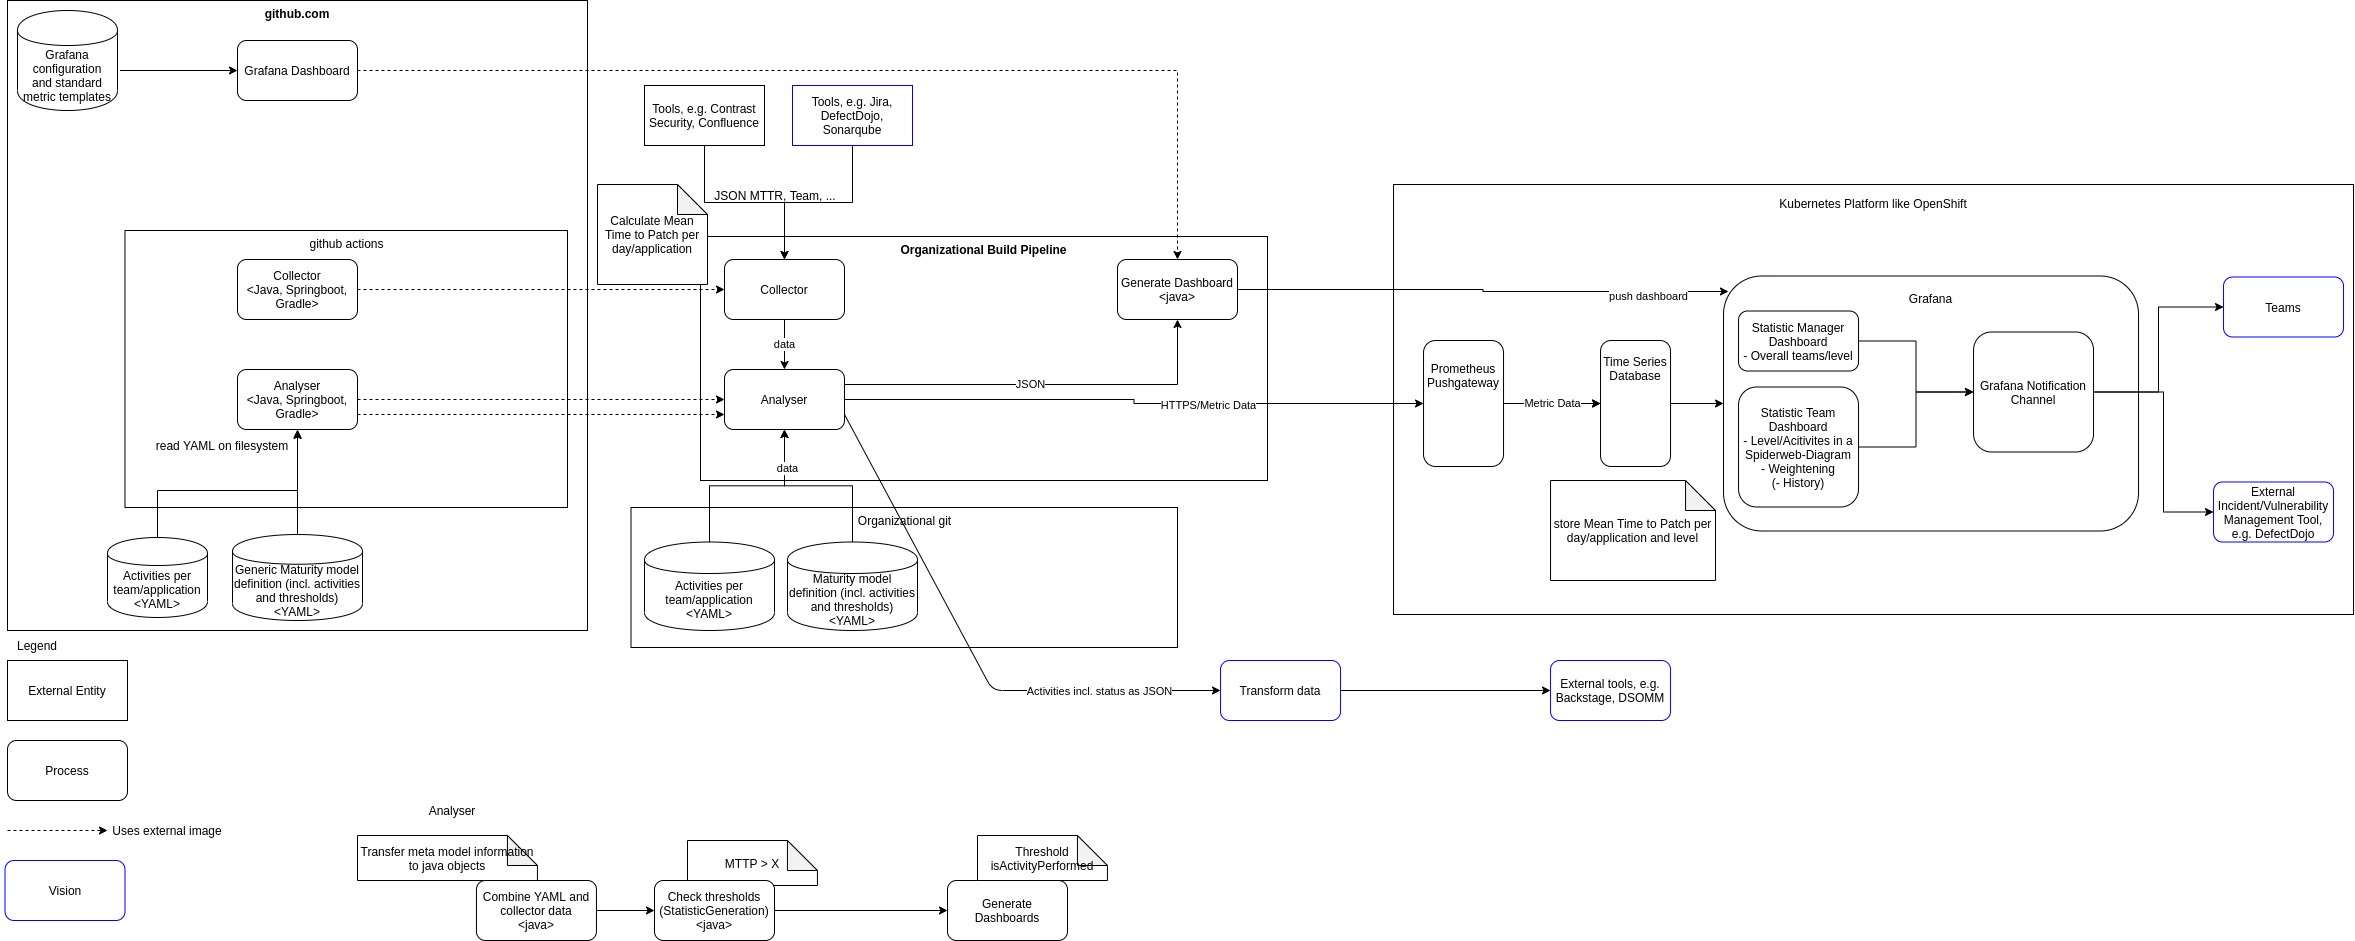
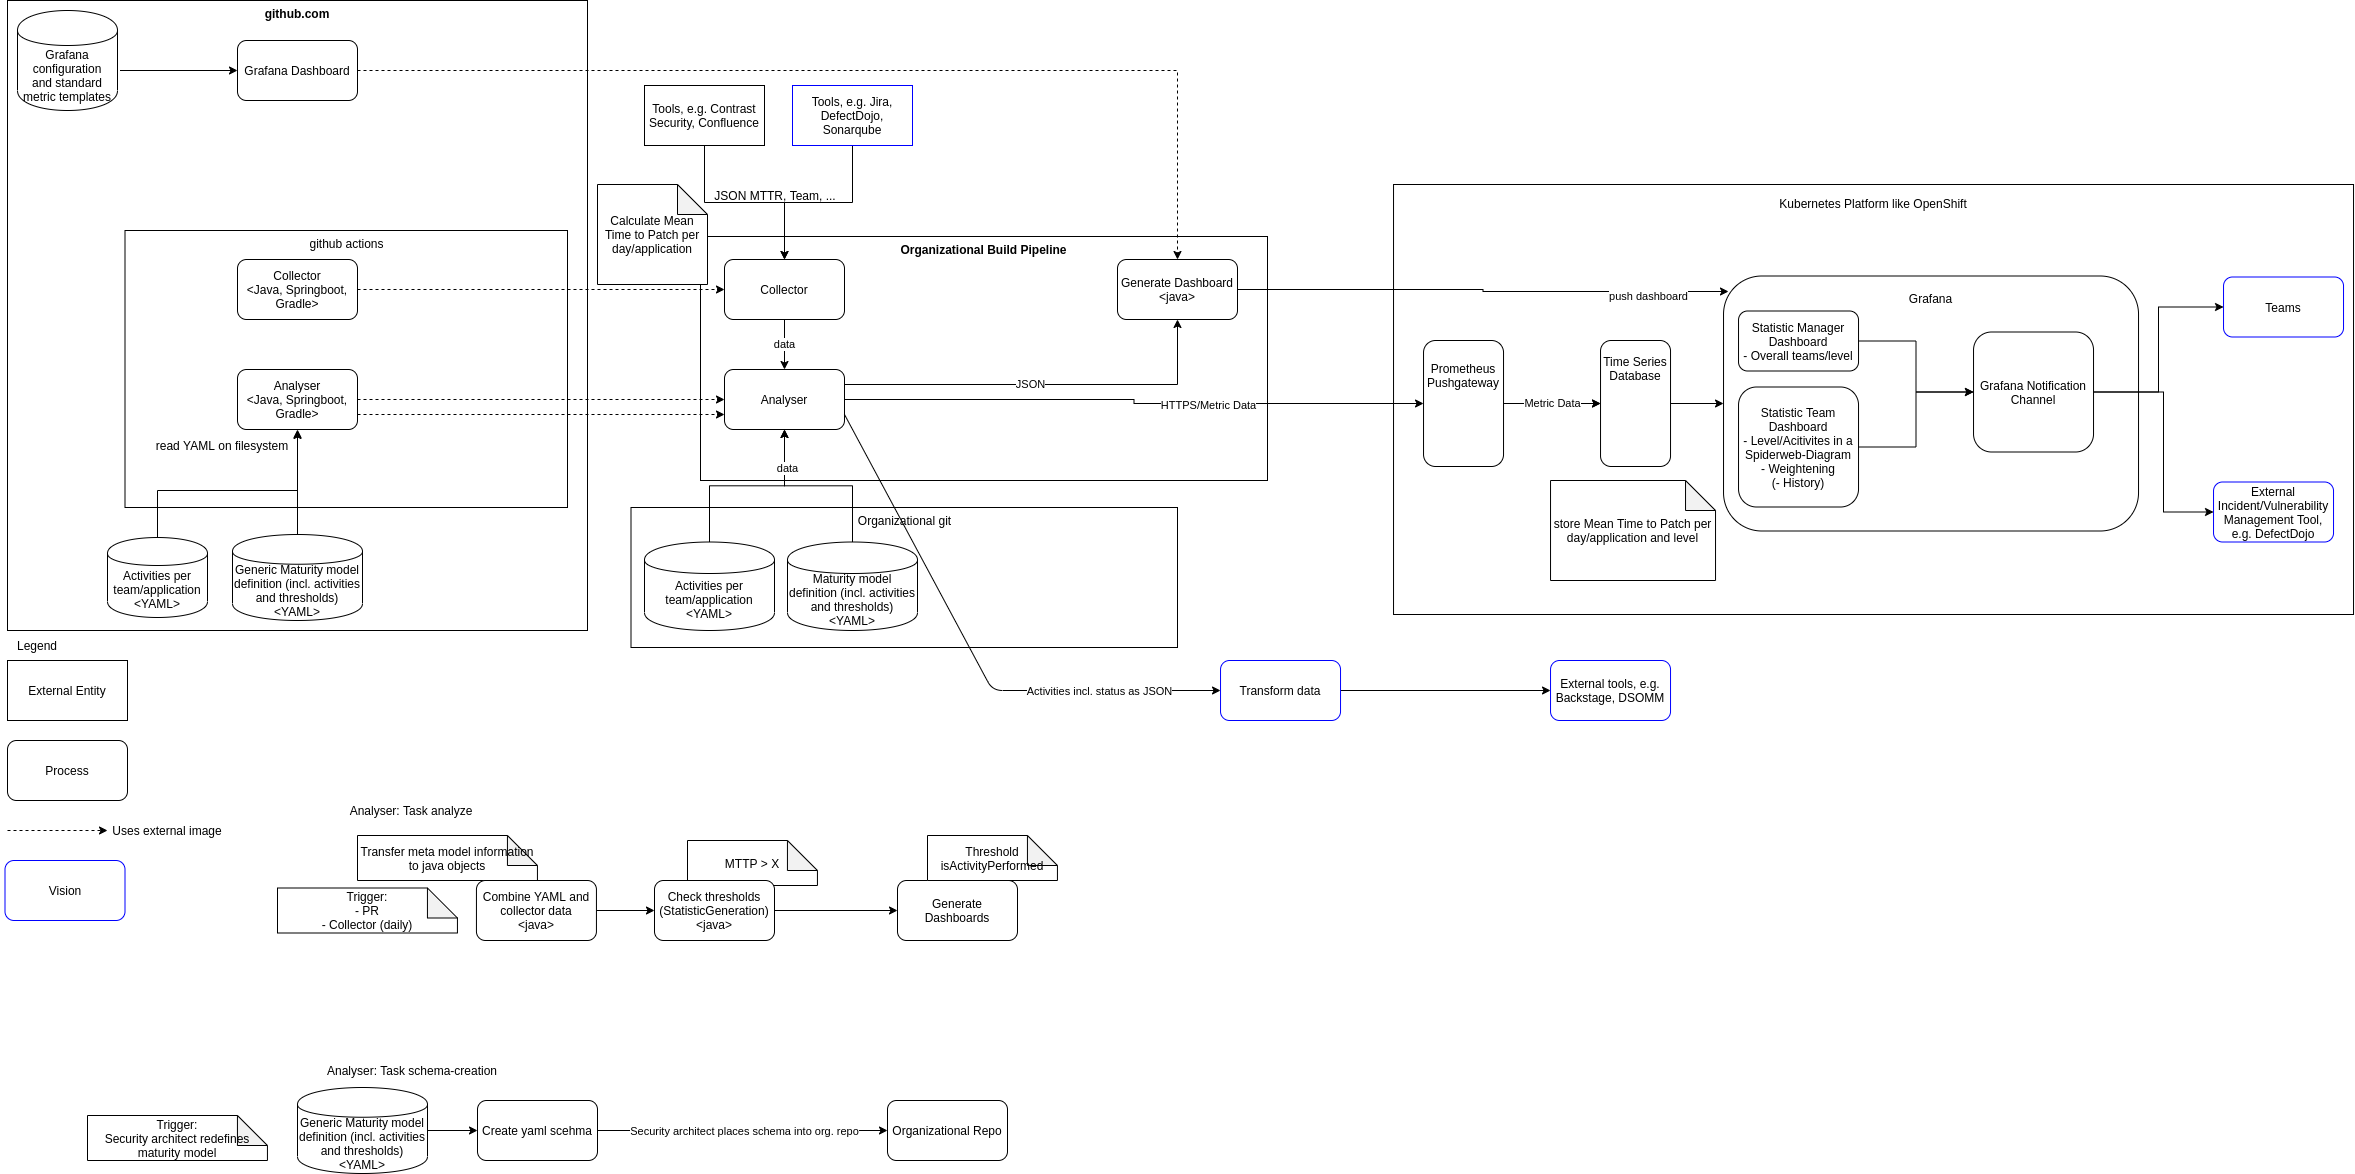
chore: ad planning

diff --git a/planning.md b/planning.md
@@ -1,0 +1,31 @@
+# Planning
+
+| Task                                                                                                                                  | Time (day) |
+|---------------------------------------------------------------------------------------------------------------------------------------|------------|
+| Integration of a java linter into the pipeline                                                                                        | 0.5        |
+| Setup local development env.                                                                                                          | 0.5        |
+| Create configuration.yaml for some planned activities                                                                                 | 0.5        |
+| Deployment of sample activities and model description                                                                                 | 0.5        |
+| Transfer meta model information to java objects (Analyzer)                                                                            | 3          |
+| Check thresholds and add isImplemented=true/false (Analyzer)                                                                          | 0.5        |
+| Export to prometheus push gateway                                                                                                     | 1          |
+| Development of a build process (trigger build on push, push images with semantic versioning, semantic versioning?)                    | 1          |
+| Preparation of Grafana Dashboards for different metrics (local grafana deployment -> fill test data -> click metric -> make template) | 4          |
+| Create configuration.yaml for all planned activities                                                                                  | 1          |
+| Implementation of Grafana Dashboards configuration into metricsCA (Analyzer Generate Dashboards)                                      | 2          |
+| Figure out how to do PRs with (automated) schema validation in an enterprise organization                                             | 0.5        |
+| Generate yaml schema for model objects for activities (Analyzer)                                                                      | 2          |
+| Sort metrics in Dashboard (optional)                                                                                                  | 1          |
+| Alarm send out for defined activities (optional)                                                                                      | 1          |
+| Check yaml schema generation on configuration.yaml change in organization build pipeline                                              | 0.5        |
+| Refinement of activities                                                                                                              | 0.5        |
+| Integration of automated PRs for new patches into the pipeline                                                                        | 0.5        |
+| Integration of test-coverage checks into the pipeline                                                                                 | 1          |
+| Collector (from 3 APIs and MTTR/MTTP calculation, Pentest)                                                                            | 5          |
+| Determine organizational teams and applications automated                                                                             | 2          |
+| Deployment organizational activities                                                                                                  | 1          |
+| Deployment MetricaCA                                                                                                                  | 3          |
+| Deployment Collector                                                                                                                  | 1          |
+| Deployment Grafana Stack                                                                                                              | 2          |
+
+Remark: Some activities are to be performed by two developers, but it will not slow us down. We think that will come up to 3 days.
